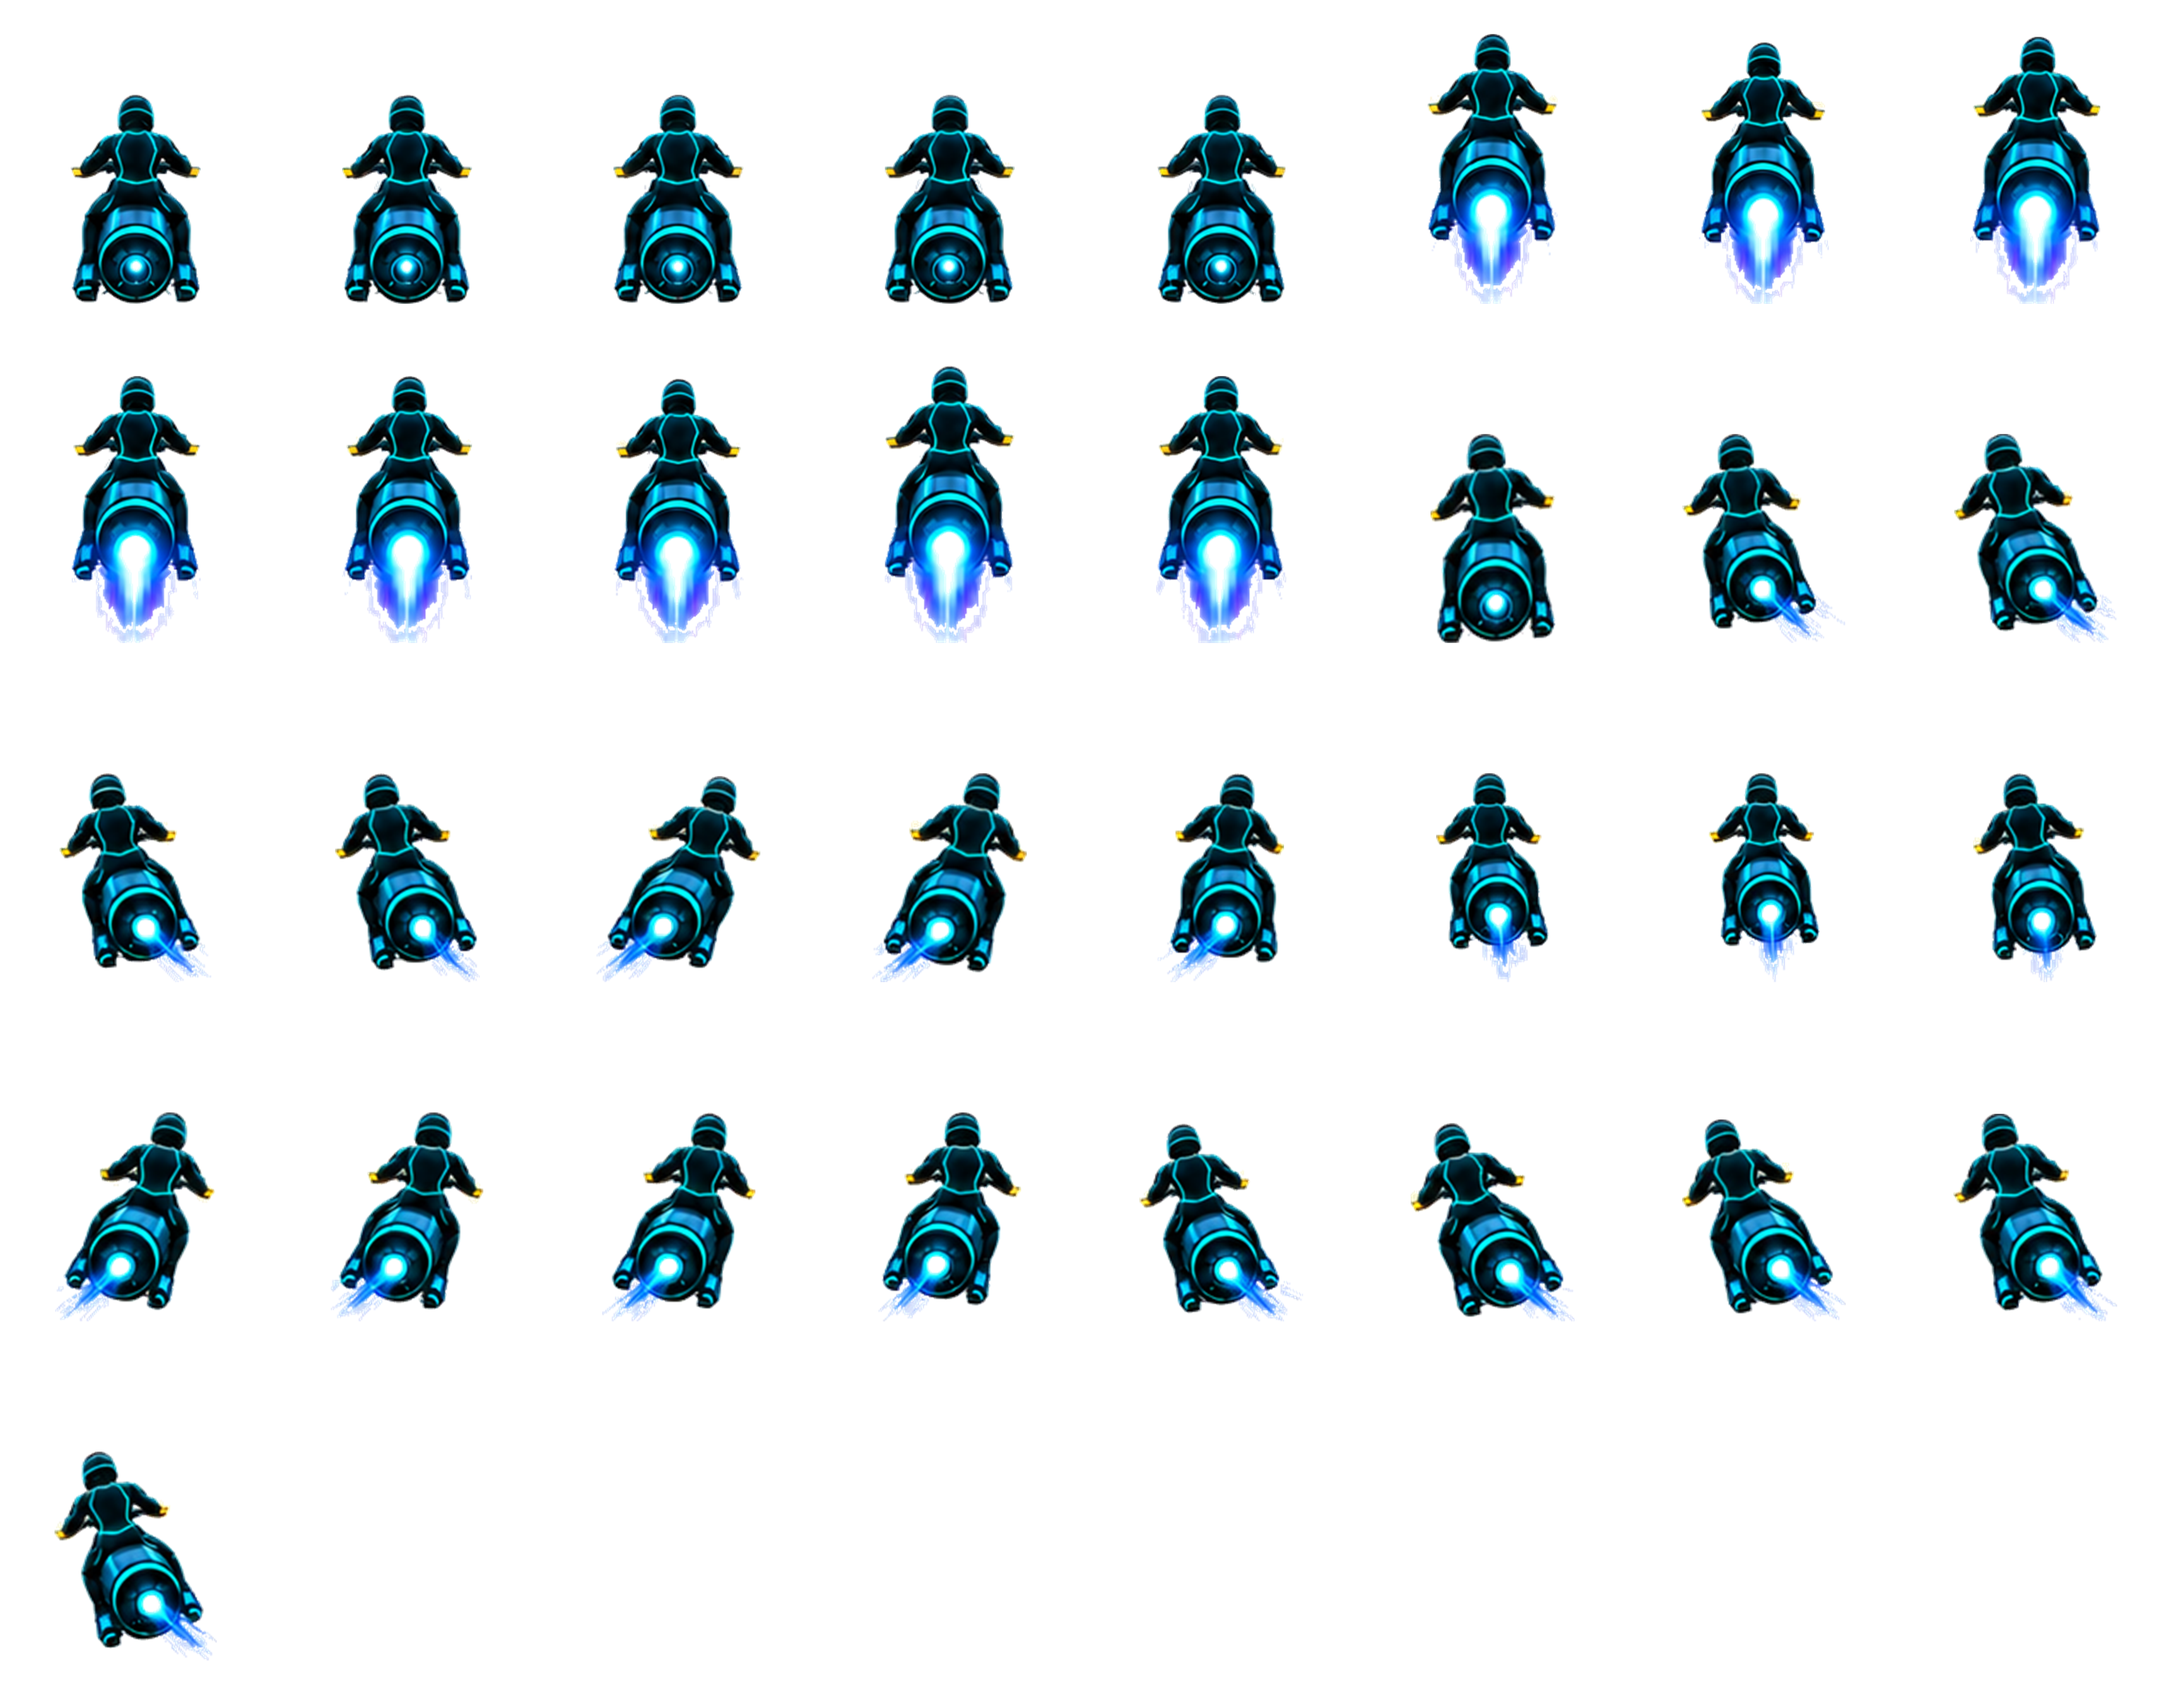
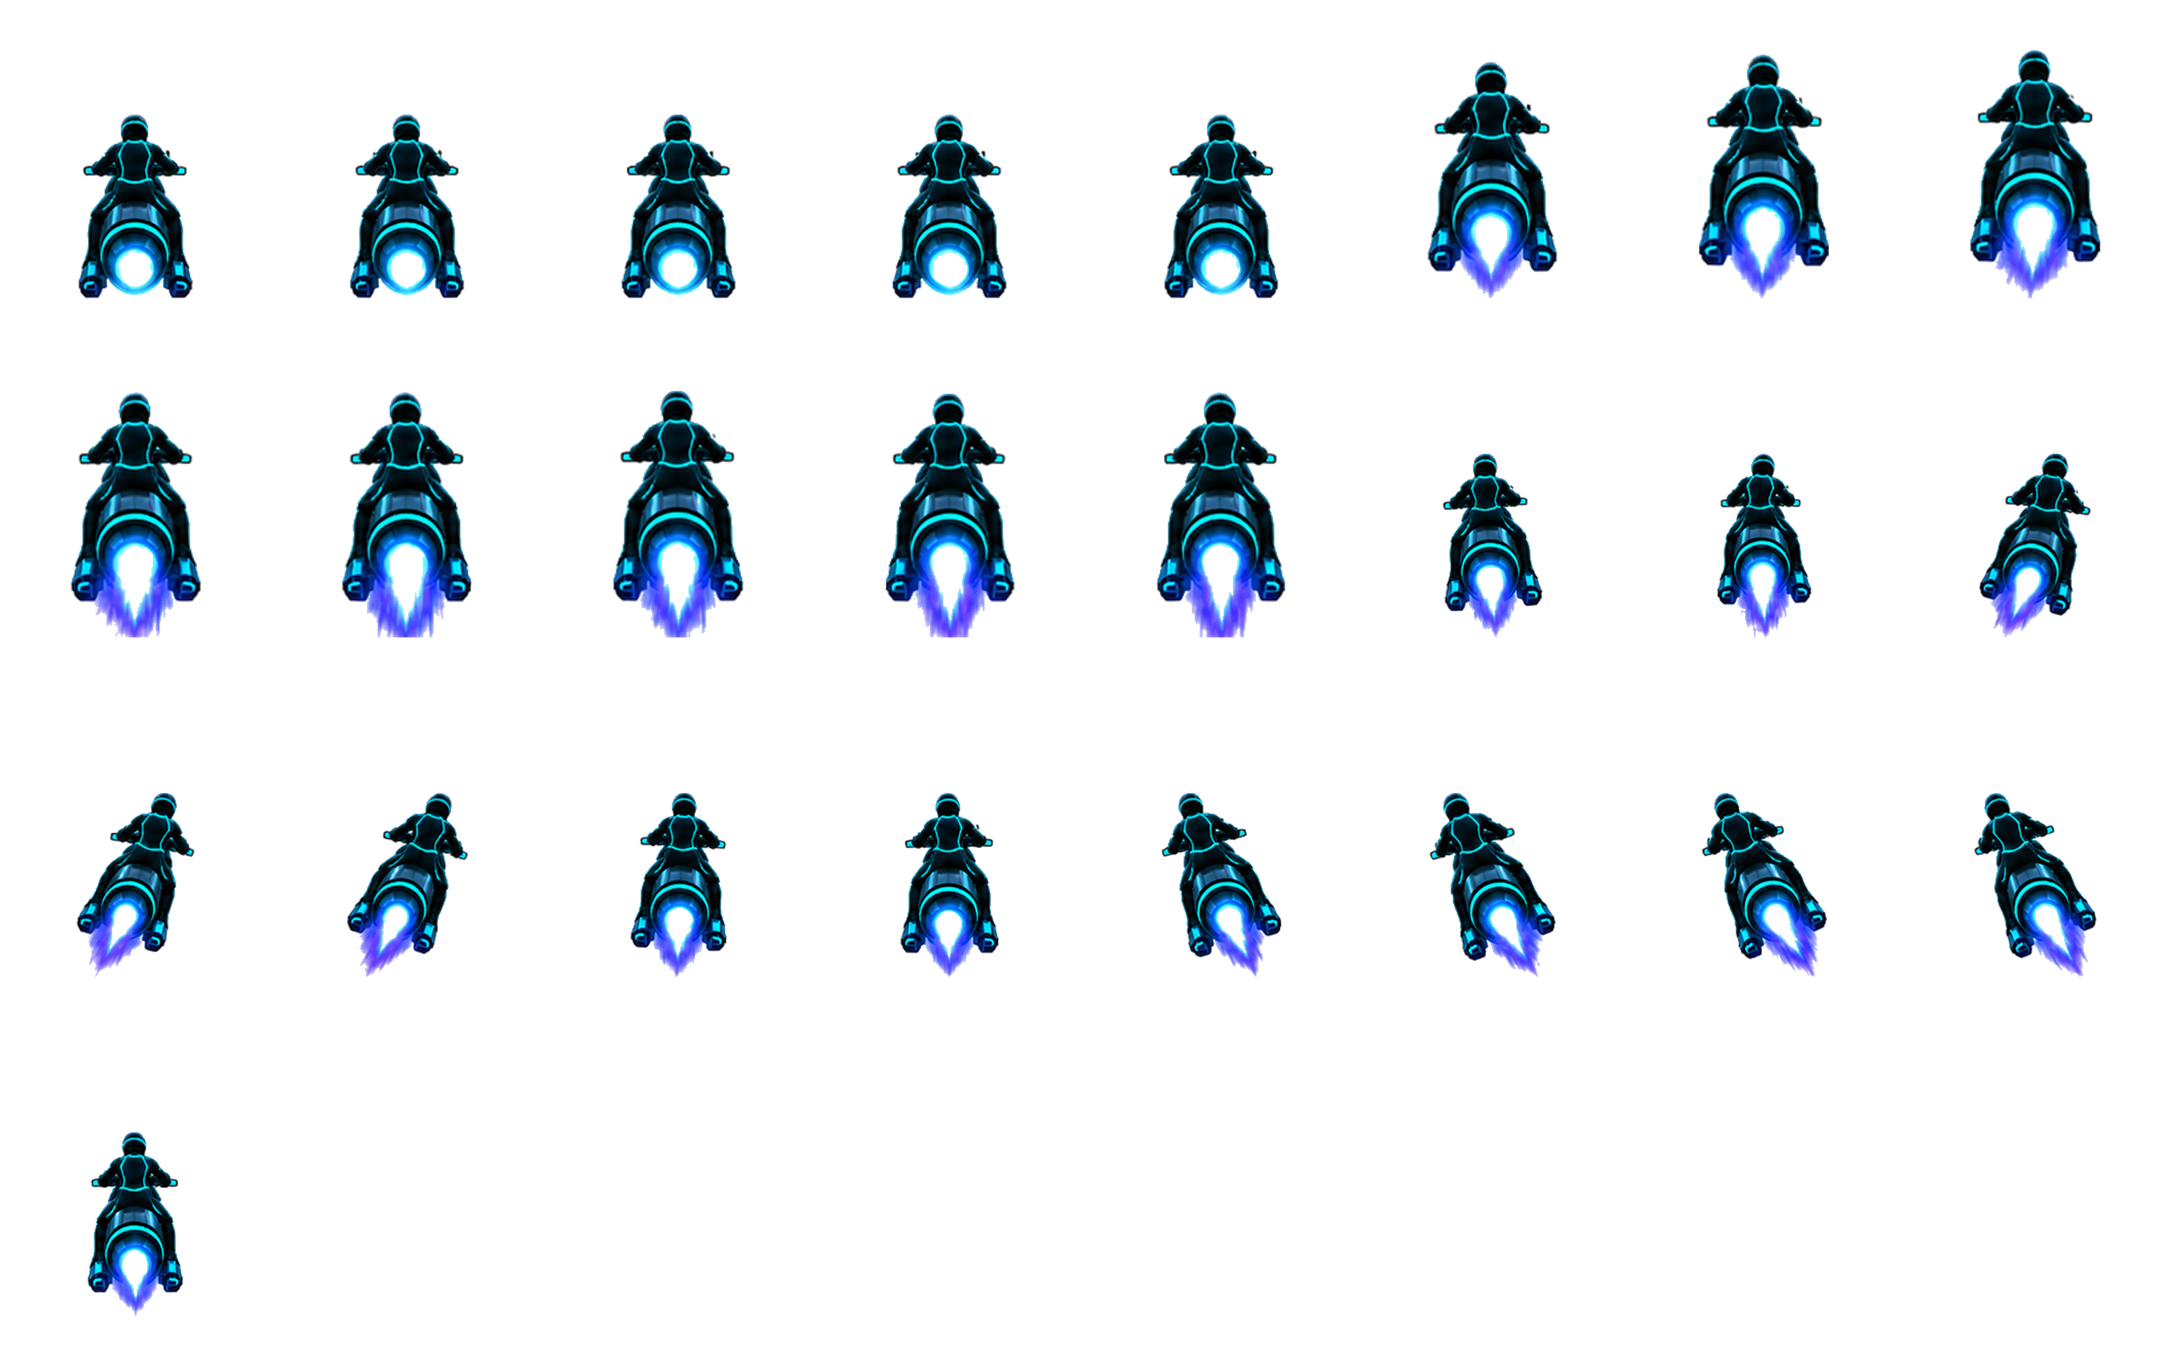
接入新版摩托序列帧

diff --git a/src/game/assets/assetManifest.ts b/src/game/assets/assetManifest.ts
@@ -142,8 +142,8 @@ export const playerAnimationKeys = {
 export const playerAnimationFrames = {
   idle: { start: 0, end: 4, frameRate: 7, repeat: -1 },
   boost: { start: 5, end: 12, frameRate: 14, repeat: -1 },
-  laneLeft: { start: 14, end: 17, frameRate: 24, repeat: 0 },
-  laneRight: { start: 24, end: 27, frameRate: 24, repeat: 0 },
+  laneLeft: { start: 13, end: 18, frameRate: 24, repeat: 0 },
+  laneRight: { start: 19, end: 24, frameRate: 24, repeat: 0 },
 } as const;
 
 export function getAllGameAssets(): GameAssetDefinition[] {
